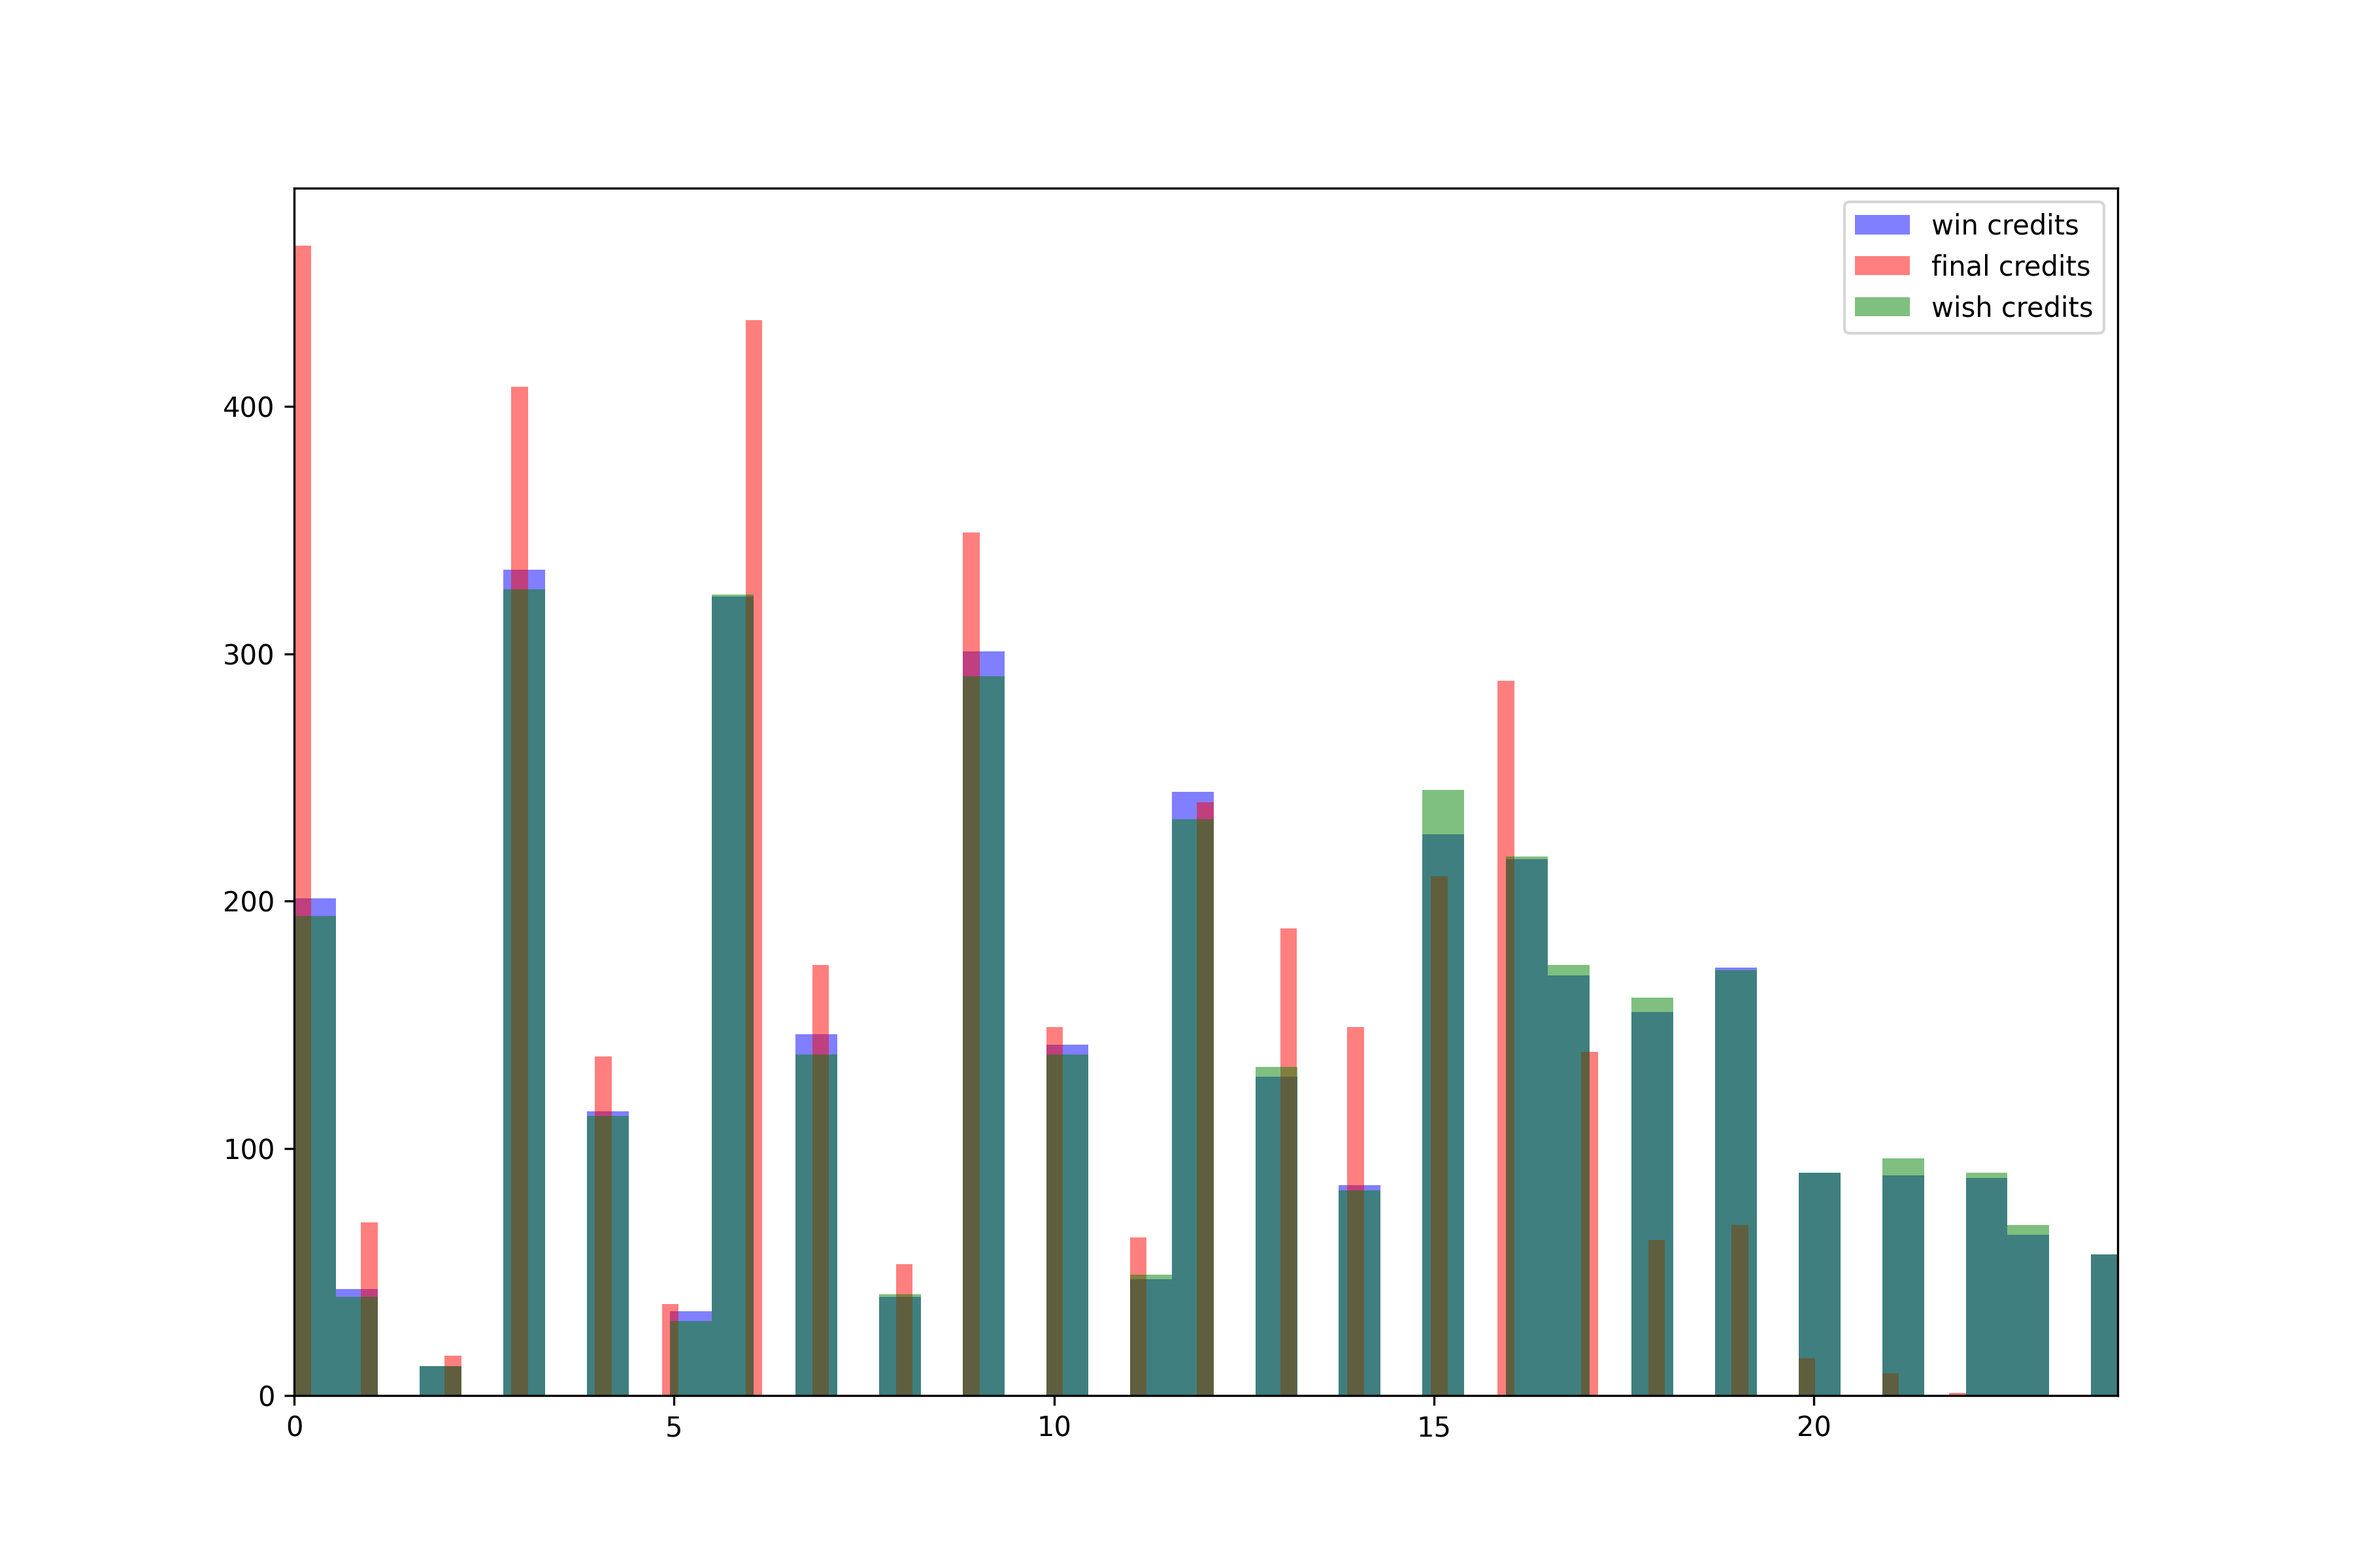
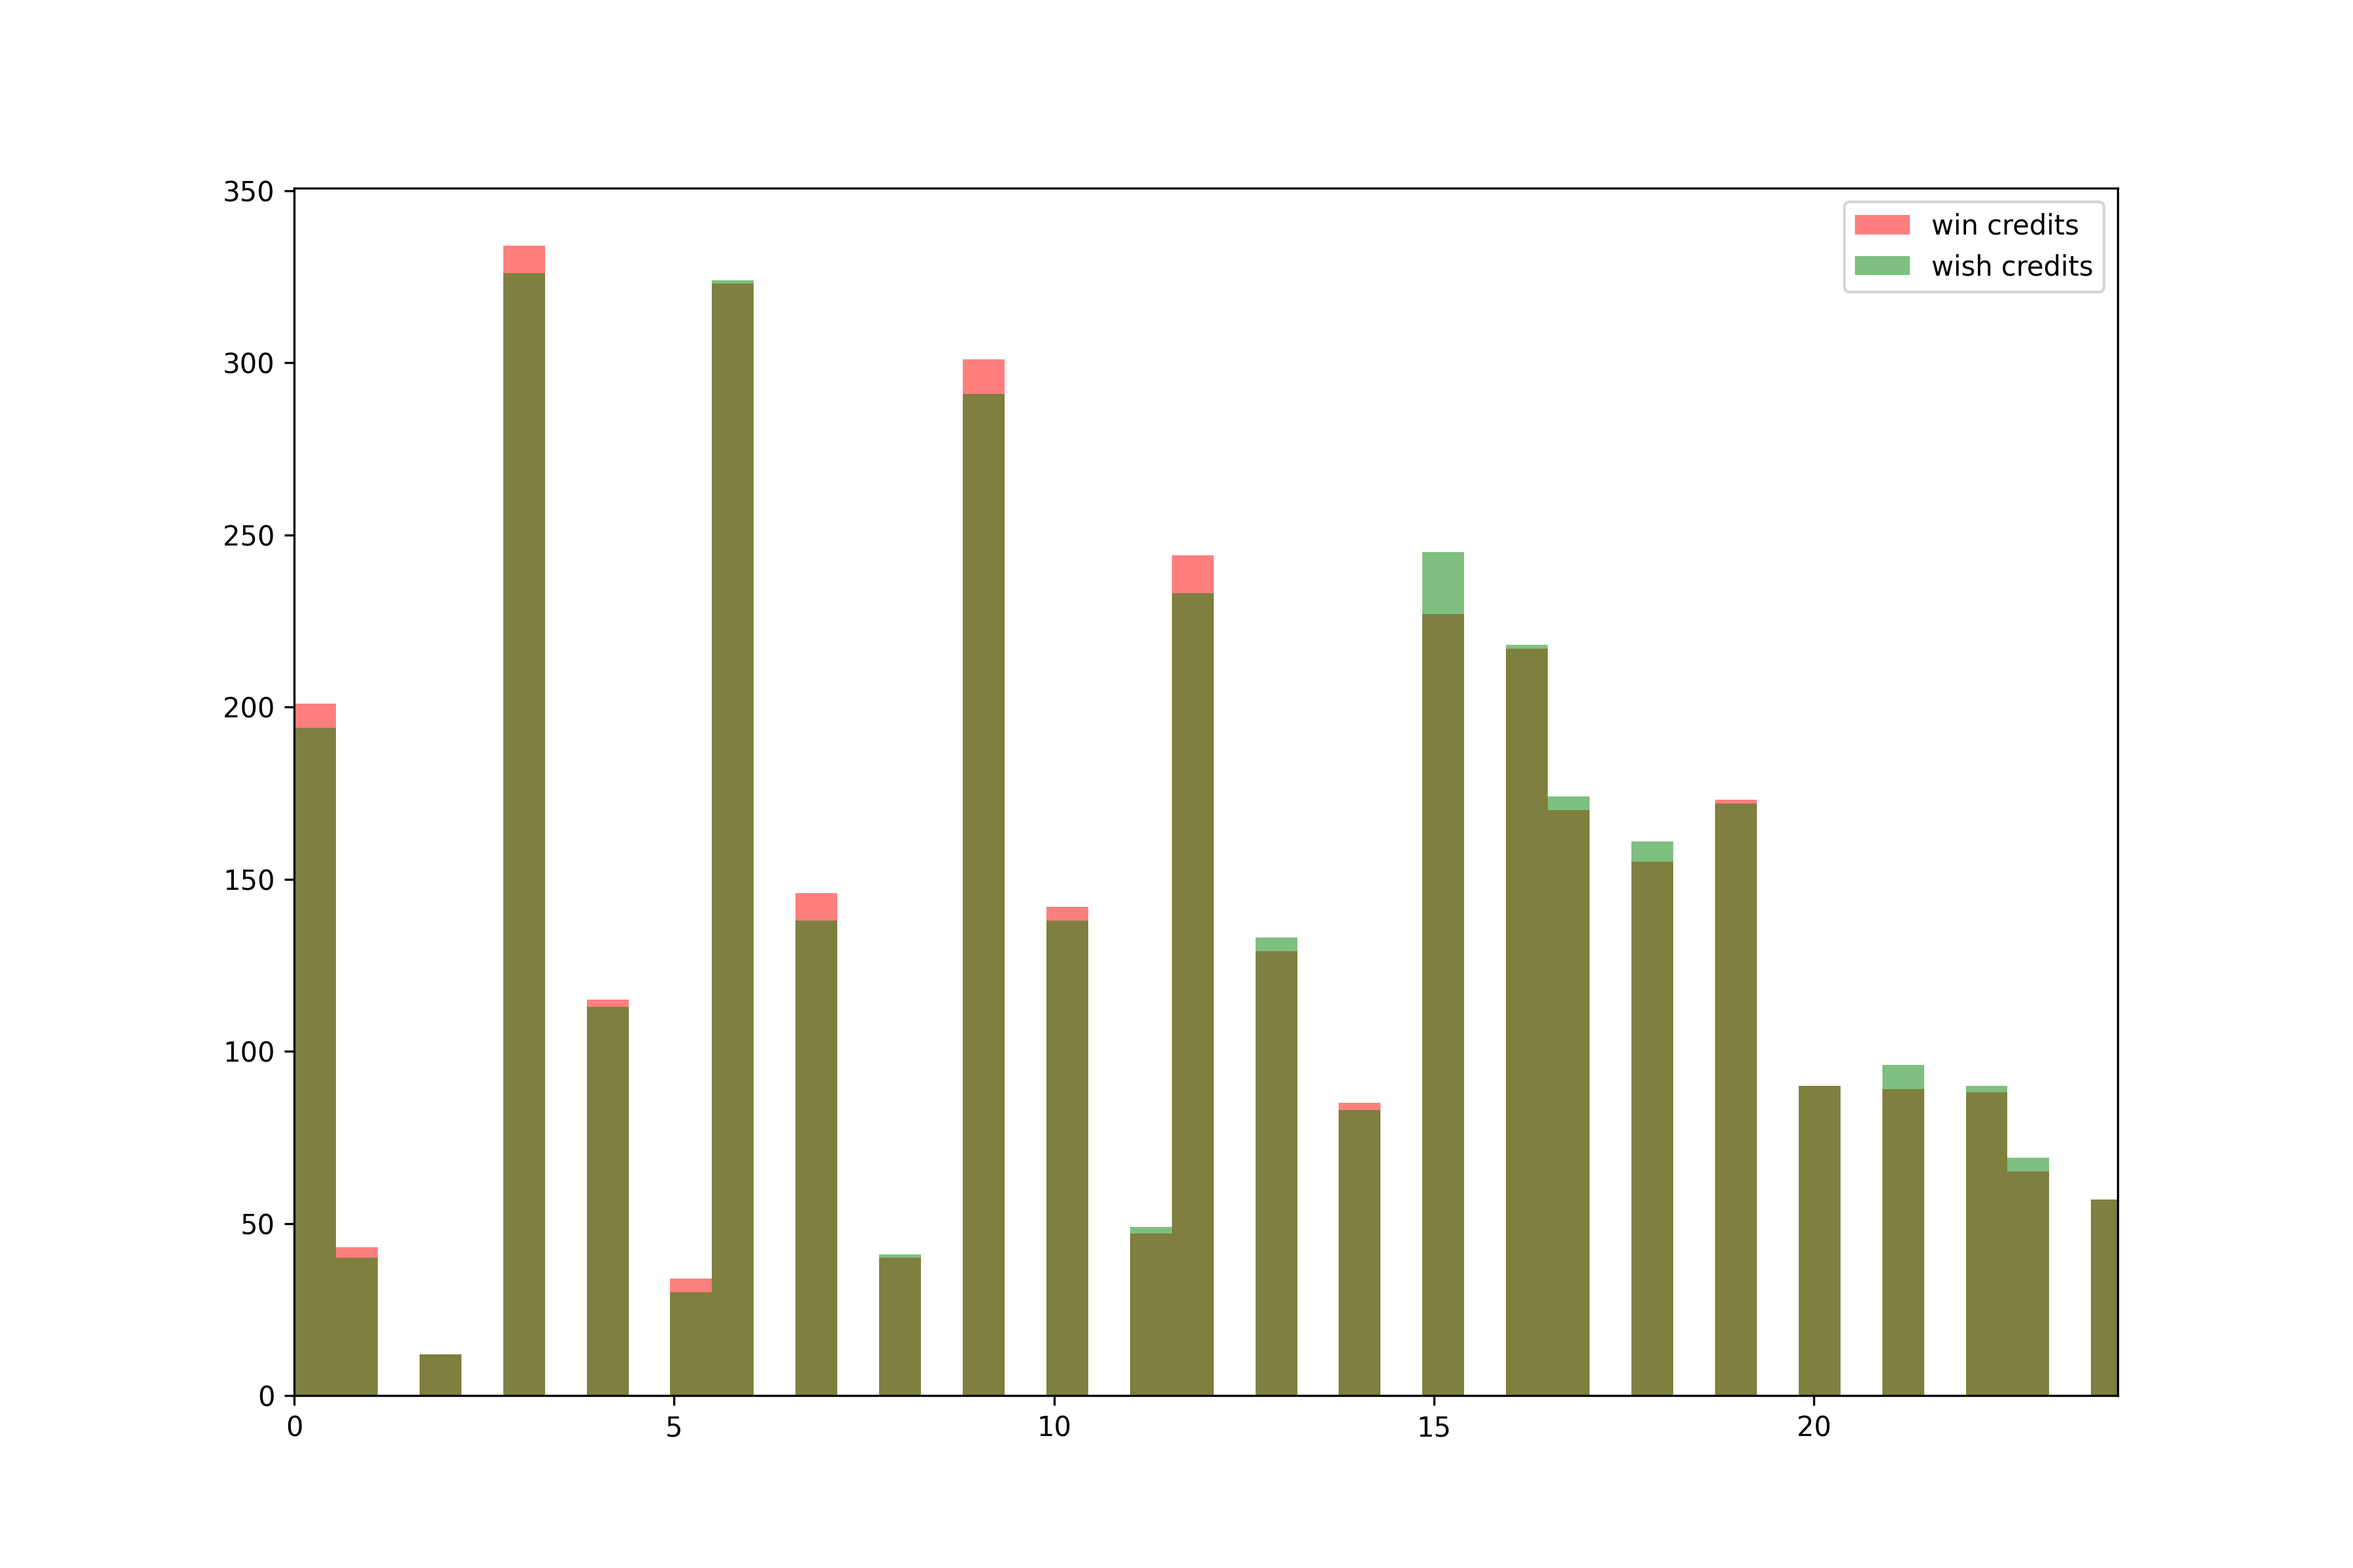
visualization for 4 metrics

Changed region(s): [[0.0933, 0.1562, 0.9022, 0.9062], [0.7778, 0.125, 0.9022, 0.2188]]

diff --git a/visualization/visualize.py b/visualization/visualize.py
@@ -21,26 +21,45 @@ def sum_credits(timetable):
             credits += courses[t].credit
     return credits
 
-def credit_compare():
+def credit_distribution():
     credits = []
     win_credits = []
     final_credits = []
     for s in students:
         if s.degree == Degree.BACHELOR:
-            credits.append(sum_credits(s.timetable))
-            win_credits.append(sum_credits(s.win_timetable))
-            final_credits.append(sum_credits(s.final_timetable))
+            wish_credit = sum_credits(s.timetable)
+            win_credit = sum_credits(s.win_timetable)
+            if wish_credit > 0:
+                credits.append(wish_credit)
+                win_credits.append(win_credit)
     
     args = dict(alpha = 0.5, bins = 100)
     plt.clf()
     plt.figure(figsize=(12,8))
-    plt.hist(win_credits, **args, color="b", label = "win credits")
-    plt.hist(final_credits, **args, color="r", label = "final credits")
+    plt.hist(win_credits, **args, color="r", label = "win credits")
     plt.hist(credits, **args, color="g", label = "wish credits")
     plt.xlim(0, 24)
     plt.legend()
     # plt.show()
     plt.savefig('visualization/result/credit_comparison.png', dpi=300)
+
+def credit_comparison_ratio():
+    ratios = []
+    for s in students[:10]:
+        if s.degree == Degree.BACHELOR:
+            wish_credit = sum_credits(s.timetable)
+            win_credit = sum_credits(s.win_timetable)
+            print(s.timetable, s.win_timetable)
+            if (wish_credit > 0):
+                ratios.append(win_credit / wish_credit * 100)
+    print(ratios[:10])
+    args = dict(alpha = 0.5, bins = 100)
+    plt.clf()
+    plt.figure(figsize=(12,8))
+    plt.hist(ratios, **args, color="r", label = "ratios")
+    plt.legend()
+    plt.show()
+    #plt.savefig('visualization/result/credit_comparison.png', dpi=300)
 
 def applicants_ratio():
     args = dict(alpha = 0.5, bins = 100)
@@ -188,19 +207,21 @@ def year_distribution():
     plt.savefig('visualization/result/ratio_per_years.png', dpi=300)
     pass
 
-# 학생이 신청한 학점/당첨된 학점/실제 수강한 학점 분포
-credit_compare()
+# 학생이 신청한 학점 / 당첨된 학점 / 실제 수강한 학점 분포
+#credit_distribution()
+
+# 학생이 신청한 학점 대비 당첨된 학점.
+credit_comparison_ratio()
 
 # 수업별 정원의 비율 분포
-applicants_ratio()
+#applicants_ratio()
 
 # 전공 / 복수전공 / 부전공 / 전공X 별
 # 수강신청 대비 당첨 비율  (만족도)
-get_major_list()
-major_distribution()
+#get_major_list()
+#major_distribution()
 
-# TO-DO
 # 과목별 주전/복전/부전 신청 및 당첨 비율
 
 # 학년 별 수강신청 대비 당첨 비율 
-year_distribution()
+#year_distribution()

diff --git a/visualization/data_parsing.py b/visualization/data_parsing.py
@@ -5,11 +5,11 @@ from classes.course import Course
 from classes.major import Major
 import pickle
 
-student_path = "data/wishlist.xlsx"
-course_path = "data/course_update.xlsx"
+student_path = "../data/wishlist.xlsx"
+course_path = "../data/course_update.xlsx"
 
-pickle_course_path = "data/course.pickle"
-pickle_student_path = "data/student.pickle"
+pickle_course_path = "../data/course.pickle"
+pickle_student_path = "../data/student.pickle"
 
 def read_course_info():
     df = pd.ExcelFile(course_path).parse(
